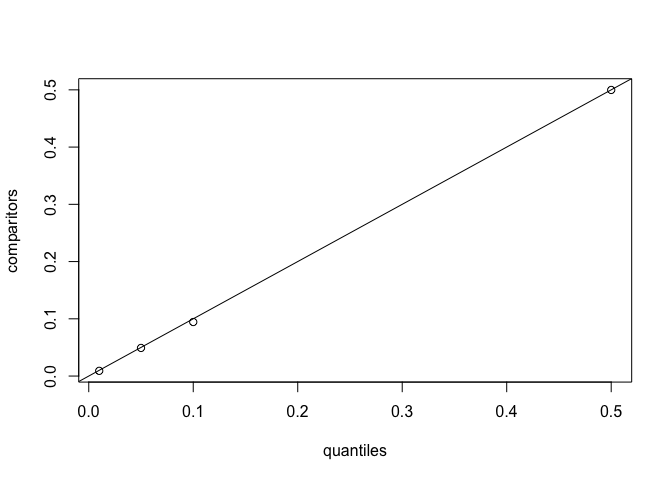
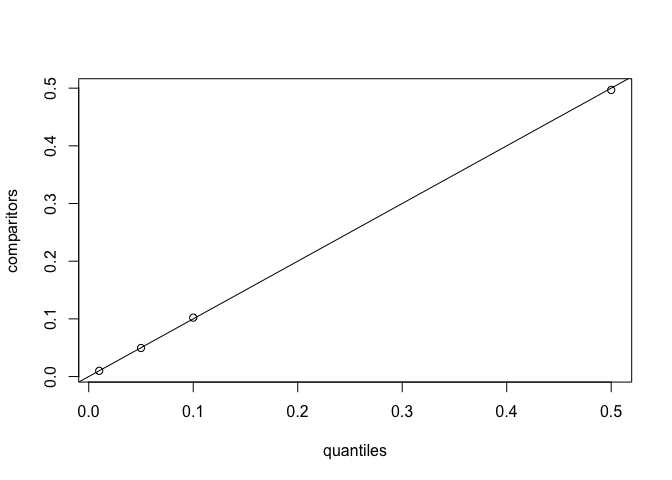
updated primary function

diff --git a/readme.md b/readme.md
@@ -3,7 +3,7 @@ Estimating false positive rates with simulation
 Joel Levin
 April 12, 2020
 
-This version: 2020-04-12 12:25:09.  
+This version: 2020-04-12 13:11:45.  
 You can contact Joel at <joelmlevin@gmail.com>.
 
 ## Description
@@ -38,6 +38,17 @@ corresponding frequency (e.g., 5% of the time). The arguments include:
 ``` r
 simulate_fp <- function(outcome_vector, num_conditions = 2, test_type = c("poisson", "ols", "t-test"), replications = 10000) {
   
+  # tests
+  if(test_type != "poisson" & test_type != "ols" & test_type != "t-test") {
+    stop("Please specify a test type using the `test_type` argument. The available tests are 'poisson', 'ols', and 't-test.")
+    }
+  if(is.numeric(outcome_vector != TRUE)) {
+    stop("outcome_vector must be a numeric vector.")
+    }
+  if(is.integer(outcome_vector/num_conditions) != TRUE) {
+    warning("Function may behave strangely if there are unequal numbers of observations per condition.")
+    }
+  
   tests <- rep(NA, replications) # generate an empty vector of appropriate length. this will be overwritten with p values
   
   # looping to fill in each element of the `tests` vector
@@ -47,7 +58,7 @@ simulate_fp <- function(outcome_vector, num_conditions = 2, test_type = c("poiss
     # conducting the tests    
     if(test_type == "poisson") {
     tests[n] <-  coef(summary(glm(outcome_vector ~ false_condition, family = poisson)))[2, 1:4][4]
-    }
+    } 
     if(test_type == "ols") {
       tests[n] <-  coef(summary(lm(outcome_vector ~ false_condition)))[2, 1:4][4]
     }
@@ -116,26 +127,31 @@ t.test(real_dv ~ real_conditions)
     ##  Welch Two Sample t-test
     ## 
     ## data:  real_dv by real_conditions
-    ## t = 0.13339, df = 96.952, p-value = 0.8942
+    ## t = -0.90006, df = 90.085, p-value = 0.3705
     ## alternative hypothesis: true difference in means is not equal to 0
     ## 95 percent confidence interval:
-    ##  -3.596231  4.114463
+    ##  -6.135013  2.309273
     ## sample estimates:
     ## mean in group 1 mean in group 2 
-    ##        20.38756        20.12844
+    ##        19.53892        21.45179
 
 Now using the function to simulate p values for random experimental
 conditions
 
 ``` r
-simulated_ps <- simulate_fp(outcome_vector = real_dv, num_conditions = 2, 
-                            test_type = "t-test", replications = 10000)
+simulated_ps <- simulate_fp(outcome_vector = real_dv, num_conditions = 2, test_type = "t-test", replications = 10000)
+```
 
+    ## Warning in simulate_fp(outcome_vector = real_dv, num_conditions = 2,
+    ## test_type = "t-test", : Function may behave strangely if there are unequal
+    ## numbers of observations per condition.
+
+``` r
 simulated_ps[1:10]
 ```
 
-    ##  [1] 0.9728038 0.6012338 0.3861158 0.2213838 0.7933293 0.8322469 0.2687333
-    ##  [8] 0.7213555 0.6033797 0.6076678
+    ##  [1] 0.17416838 0.82437434 0.42130946 0.02833715 0.90954167 0.67483709
+    ##  [7] 0.22920349 0.43576945 0.60011890 0.57542034
 
 ### Now using the diagnostic functions.
 
@@ -149,10 +165,10 @@ diagnostics(simulated_ps, type = "table")
 ```
 
     ##     quantiles comparitors
-    ## 1%       0.01      0.0091
-    ## 5%       0.05      0.0491
-    ## 10%      0.10      0.0944
-    ## 50%      0.50      0.4998
+    ## 1%       0.01      0.0099
+    ## 5%       0.05      0.0495
+    ## 10%      0.10      0.1022
+    ## 50%      0.50      0.4969
 
 The diagnostic plot simply combines both values in a plot with a
 reference line. The closer the points are to the reference line, the
@@ -196,6 +212,6 @@ uniform.test(hist(simulated_ps))
     ##  Chi-squared test for given probabilities
     ## 
     ## data:  hist.output$counts
-    ## X-squared = 19.296, df = 19, p-value = 0.438
+    ## X-squared = 23.36, df = 19, p-value = 0.2219
 
 (Later, add in the plotting functions)
